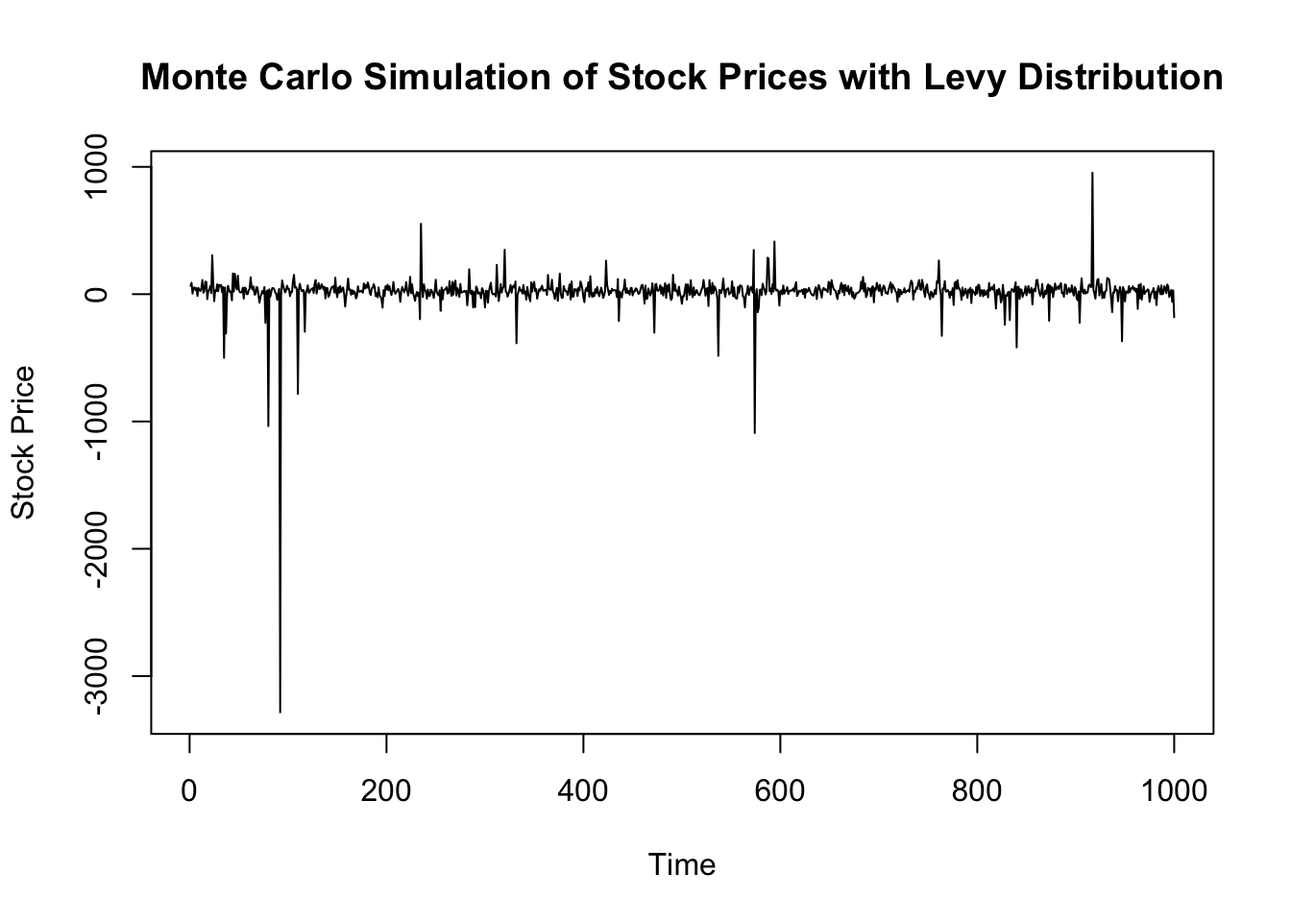
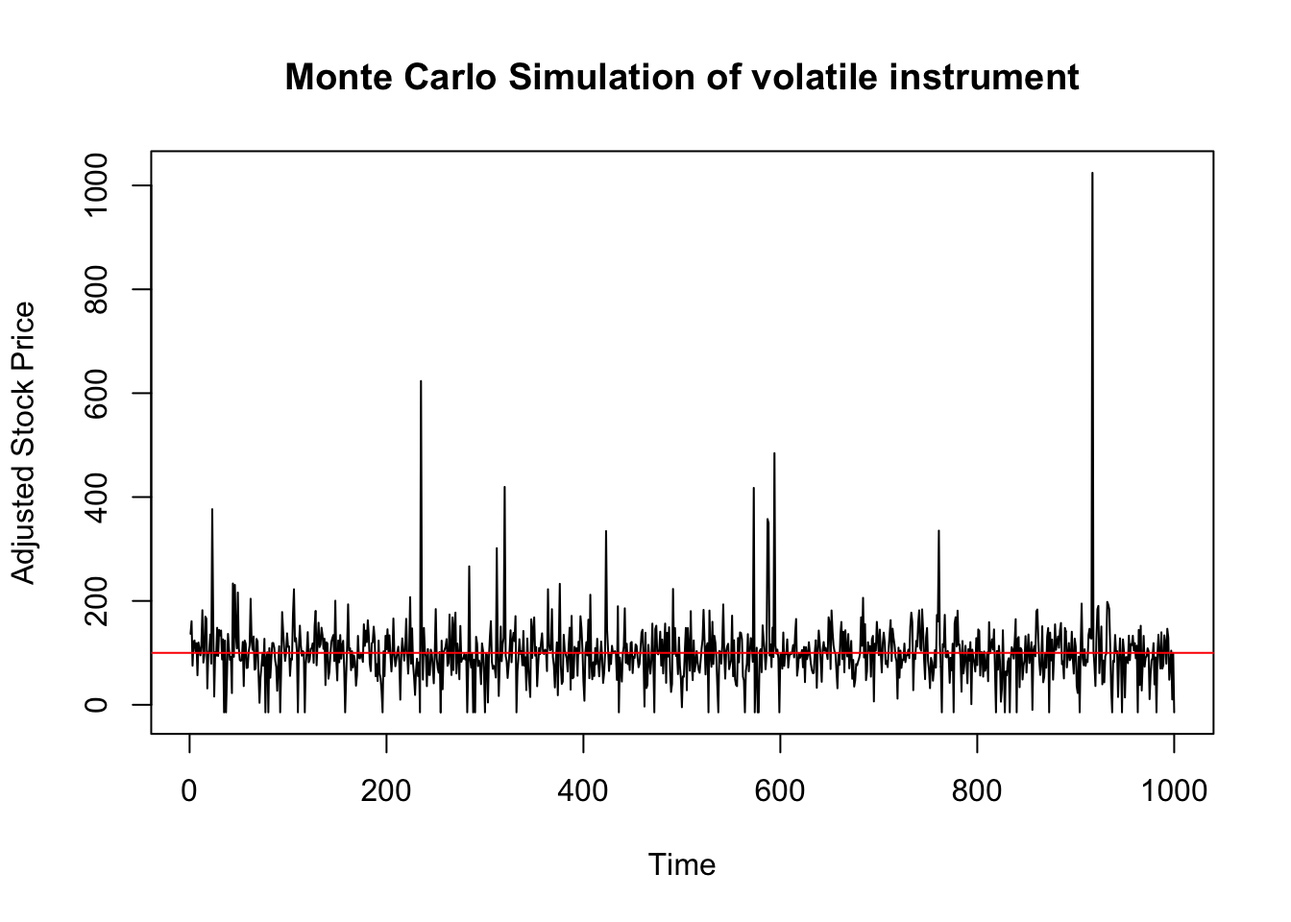
drawdons 23.5

diff --git a/docs/Catallactics/Personal/levi.html b/docs/Catallactics/Personal/levi.html
@@ -791,6 +791,16 @@ cookieconsent.run({
   <li><a href="#fat-tail" id="toc-fat-tail" class="nav-link" data-scroll-target="#fat-tail">Fat tail</a></li>
   <li><a href="#levy-distribution" id="toc-levy-distribution" class="nav-link" data-scroll-target="#levy-distribution">Levy distribution</a></li>
   <li><a href="#left-skewed-levy-distribution" id="toc-left-skewed-levy-distribution" class="nav-link" data-scroll-target="#left-skewed-levy-distribution">Left skewed Levy distribution</a></li>
+  <li><a href="#alternate-worlds" id="toc-alternate-worlds" class="nav-link" data-scroll-target="#alternate-worlds">1000 alternate worlds</a></li>
+  <li><a href="#what-is-the-probability-of-various-return-rates" id="toc-what-is-the-probability-of-various-return-rates" class="nav-link" data-scroll-target="#what-is-the-probability-of-various-return-rates">What is the probability of various return rates?</a>
+  <ul class="collapse">
+  <li><a href="#summing-up-all-probabilities" id="toc-summing-up-all-probabilities" class="nav-link" data-scroll-target="#summing-up-all-probabilities"><strong>Summing Up All Probabilities:</strong></a></li>
+  </ul></li>
+  <li><a href="#value-at-risk-var-and-conditional-var" id="toc-value-at-risk-var-and-conditional-var" class="nav-link" data-scroll-target="#value-at-risk-var-and-conditional-var">Value at Risk (VaR) and Conditional VaR</a>
+  <ul class="collapse">
+  <li><a href="#var" id="toc-var" class="nav-link" data-scroll-target="#var">VaR</a></li>
+  <li><a href="#cvar" id="toc-cvar" class="nav-link" data-scroll-target="#cvar">CVaR</a></li>
+  </ul></li>
   </ul>
 </nav>
     </div>
@@ -879,6 +889,8 @@ cookieconsent.run({
 <h2 class="anchored" data-anchor-id="left-skewed-levy-distribution">Left skewed Levy distribution</h2>
 <p>We are particularly interested in Levy distribution while analysing returns from a volatile instrument.</p>
 <div class="cell">
+<details class="code-fold">
+<summary>Code</summary>
 <div class="sourceCode cell-code" id="cb1"><pre class="sourceCode r code-with-copy"><code class="sourceCode r"><span id="cb1-1"><a href="#cb1-1" aria-hidden="true" tabindex="-1"></a><span class="co"># Install and load the necessary package</span></span>
 <span id="cb1-2"><a href="#cb1-2" aria-hidden="true" tabindex="-1"></a><span class="co"># install.packages("stabledist")</span></span>
 <span id="cb1-3"><a href="#cb1-3" aria-hidden="true" tabindex="-1"></a><span class="fu">library</span>(stabledist)</span>
@@ -898,6 +910,7 @@ cookieconsent.run({
 <span id="cb1-17"><a href="#cb1-17" aria-hidden="true" tabindex="-1"></a></span>
 <span id="cb1-18"><a href="#cb1-18" aria-hidden="true" tabindex="-1"></a><span class="co"># Plot the histogram of the simulated data</span></span>
 <span id="cb1-19"><a href="#cb1-19" aria-hidden="true" tabindex="-1"></a><span class="fu">hist</span>(levy_data, <span class="at">breaks =</span> <span class="dv">50</span>, <span class="at">main =</span> <span class="st">"Left-Skewed Lévy Distribution"</span>, <span class="at">xlab =</span> <span class="st">"Data"</span>, <span class="at">ylab =</span> <span class="st">"Frequency"</span>, <span class="at">col =</span> <span class="st">"blue"</span>)</span></code><button title="Copy to Clipboard" class="code-copy-button"><i class="bi"></i></button></pre></div>
+</details>
 <div class="cell-output-display">
 <div>
 <figure class="figure">
@@ -917,7 +930,18 @@ cookieconsent.run({
 <li><p><code>Frequency of huge loss is more than huge gains.</code></p></li>
 </ul>
 <p><code>But in case of standard volatile instruments, the left side is truncated at -100%</code></p>
+</section>
+<section id="alternate-worlds" class="level2">
+<h2 class="anchored" data-anchor-id="alternate-worlds">1000 alternate worlds</h2>
+<p>If we imagine 1000 alternative worlds were this distribution is at play, we can see that each world will be experiencing different returns.</p>
+<p><img src="images/notsogoo.png" class="img-fluid" width="60"></p>
+<p>Some will be experiencing repeated huge draw-downs followed by not so huge build-ups.</p>
+<p>Others may experience significant draw-downs followed by multiple towering build-ups.</p>
+<p><img src="images/huge.png" class="img-fluid" width="84"></p>
+<p>What is common to all these worlds are frequent and extreme draw-downs.</p>
 <div class="cell">
+<details class="code-fold">
+<summary>Code</summary>
 <div class="sourceCode cell-code" id="cb2"><pre class="sourceCode r code-with-copy"><code class="sourceCode r"><span id="cb2-1"><a href="#cb2-1" aria-hidden="true" tabindex="-1"></a><span class="fu">library</span>(stabledist)</span>
 <span id="cb2-2"><a href="#cb2-2" aria-hidden="true" tabindex="-1"></a></span>
 <span id="cb2-3"><a href="#cb2-3" aria-hidden="true" tabindex="-1"></a><span class="fu">set.seed</span>(<span class="dv">42</span>)</span>
@@ -937,11 +961,16 @@ cookieconsent.run({
 <span id="cb2-17"><a href="#cb2-17" aria-hidden="true" tabindex="-1"></a><span class="co"># Calculate cumulative sum for each simulation to get the stock prices</span></span>
 <span id="cb2-18"><a href="#cb2-18" aria-hidden="true" tabindex="-1"></a>stock_prices <span class="ot">&lt;-</span> <span class="fu">apply</span>(simulations, <span class="dv">1</span>, cumsum)</span>
 <span id="cb2-19"><a href="#cb2-19" aria-hidden="true" tabindex="-1"></a></span>
-<span id="cb2-20"><a href="#cb2-20" aria-hidden="true" tabindex="-1"></a><span class="co"># Add mean return to the stock prices</span></span>
-<span id="cb2-21"><a href="#cb2-21" aria-hidden="true" tabindex="-1"></a>stock_prices <span class="ot">&lt;-</span> stock_prices <span class="sc">+</span> mean_return</span>
-<span id="cb2-22"><a href="#cb2-22" aria-hidden="true" tabindex="-1"></a></span>
-<span id="cb2-23"><a href="#cb2-23" aria-hidden="true" tabindex="-1"></a><span class="co"># Plot some sample simulations</span></span>
-<span id="cb2-24"><a href="#cb2-24" aria-hidden="true" tabindex="-1"></a><span class="fu">plot</span>(stock_prices[<span class="dv">1</span>, ], <span class="at">type =</span> <span class="st">"l"</span>, <span class="at">xlab =</span> <span class="st">"Time"</span>, <span class="at">ylab =</span> <span class="st">"Stock Price"</span>, <span class="at">main =</span> <span class="st">"Monte Carlo Simulation of Stock Prices with Levy Distribution"</span>)</span></code><button title="Copy to Clipboard" class="code-copy-button"><i class="bi"></i></button></pre></div>
+<span id="cb2-20"><a href="#cb2-20" aria-hidden="true" tabindex="-1"></a><span class="co"># Truncate downside to maximum -100% and adjust baseline stock price to 100</span></span>
+<span id="cb2-21"><a href="#cb2-21" aria-hidden="true" tabindex="-1"></a>stock_prices_truncated <span class="ot">&lt;-</span> <span class="fu">pmax</span>(stock_prices, <span class="sc">-</span><span class="dv">100</span>)</span>
+<span id="cb2-22"><a href="#cb2-22" aria-hidden="true" tabindex="-1"></a>stock_prices_adjusted <span class="ot">&lt;-</span> stock_prices_truncated <span class="sc">+</span> (<span class="dv">100</span> <span class="sc">-</span> mean_return)</span>
+<span id="cb2-23"><a href="#cb2-23" aria-hidden="true" tabindex="-1"></a></span>
+<span id="cb2-24"><a href="#cb2-24" aria-hidden="true" tabindex="-1"></a><span class="co"># Plot some sample simulations</span></span>
+<span id="cb2-25"><a href="#cb2-25" aria-hidden="true" tabindex="-1"></a><span class="fu">plot</span>(stock_prices_adjusted[<span class="dv">1</span>, ], <span class="at">type =</span> <span class="st">"l"</span>, <span class="at">xlab =</span> <span class="st">"Time"</span>, <span class="at">ylab =</span> <span class="st">"Adjusted Stock Price"</span>, <span class="at">main =</span> <span class="st">"Monte Carlo Simulation of volatile instrument"</span>)</span>
+<span id="cb2-26"><a href="#cb2-26" aria-hidden="true" tabindex="-1"></a></span>
+<span id="cb2-27"><a href="#cb2-27" aria-hidden="true" tabindex="-1"></a><span class="co"># Add a horizontal line at y = 100 (baseline price)</span></span>
+<span id="cb2-28"><a href="#cb2-28" aria-hidden="true" tabindex="-1"></a><span class="fu">abline</span>(<span class="at">h =</span> <span class="dv">100</span>, <span class="at">col =</span> <span class="st">"red"</span>)</span></code><button title="Copy to Clipboard" class="code-copy-button"><i class="bi"></i></button></pre></div>
+</details>
 <div class="cell-output-display">
 <div>
 <figure class="figure">
@@ -950,7 +979,12 @@ cookieconsent.run({
 </div>
 </div>
 </div>
+</section>
+<section id="what-is-the-probability-of-various-return-rates" class="level2">
+<h2 class="anchored" data-anchor-id="what-is-the-probability-of-various-return-rates">What is the probability of various return rates?</h2>
 <div class="cell">
+<details class="code-fold">
+<summary>Code</summary>
 <div class="sourceCode cell-code" id="cb3"><pre class="sourceCode r code-with-copy"><code class="sourceCode r"><span id="cb3-1"><a href="#cb3-1" aria-hidden="true" tabindex="-1"></a><span class="fu">library</span>(Rcpp)</span>
 <span id="cb3-2"><a href="#cb3-2" aria-hidden="true" tabindex="-1"></a><span class="fu">library</span>(stabledist)</span>
 <span id="cb3-3"><a href="#cb3-3" aria-hidden="true" tabindex="-1"></a></span>
@@ -973,16 +1007,23 @@ cookieconsent.run({
 <span id="cb3-20"><a href="#cb3-20" aria-hidden="true" tabindex="-1"></a></span>
 <span id="cb3-21"><a href="#cb3-21" aria-hidden="true" tabindex="-1"></a><span class="co"># Basic summary statistics</span></span>
 <span id="cb3-22"><a href="#cb3-22" aria-hidden="true" tabindex="-1"></a><span class="fu">cat</span>(<span class="st">"Summary Statistics:</span><span class="sc">\n</span><span class="st">"</span>)</span></code><button title="Copy to Clipboard" class="code-copy-button"><i class="bi"></i></button></pre></div>
+</details>
 <div class="cell-output cell-output-stdout">
 <pre><code>Summary Statistics:</code></pre>
 </div>
+<details class="code-fold">
+<summary>Code</summary>
 <div class="sourceCode cell-code" id="cb5"><pre class="sourceCode r code-with-copy"><code class="sourceCode r"><span id="cb5-1"><a href="#cb5-1" aria-hidden="true" tabindex="-1"></a><span class="fu">print</span>(<span class="fu">summary</span>(future_returns))</span></code><button title="Copy to Clipboard" class="code-copy-button"><i class="bi"></i></button></pre></div>
+</details>
 <div class="cell-output cell-output-stdout">
 <pre><code>    Min.  1st Qu.   Median     Mean  3rd Qu.     Max. 
  -100.00   -11.06    13.78    26.94    37.50 73155.33 </code></pre>
 </div>
+<details class="code-fold">
+<summary>Code</summary>
 <div class="sourceCode cell-code" id="cb7"><pre class="sourceCode r code-with-copy"><code class="sourceCode r"><span id="cb7-1"><a href="#cb7-1" aria-hidden="true" tabindex="-1"></a><span class="co"># Basic histogram</span></span>
-<span id="cb7-2"><a href="#cb7-2" aria-hidden="true" tabindex="-1"></a><span class="fu">hist</span>(future_returns, <span class="at">breaks=</span><span class="dv">200</span>, <span class="at">main=</span><span class="st">"Histogram of Simulated Returns"</span>, <span class="at">xlab=</span><span class="st">"Returns"</span>)</span></code><button title="Copy to Clipboard" class="code-copy-button"><i class="bi"></i></button></pre></div>
+<span id="cb7-2"><a href="#cb7-2" aria-hidden="true" tabindex="-1"></a><span class="fu">hist</span>(future_returns, <span class="at">breaks=</span><span class="dv">175</span>, <span class="at">main=</span><span class="st">"Histogram of Simulated Returns"</span>, <span class="at">xlab=</span><span class="st">"Returns"</span>)</span></code><button title="Copy to Clipboard" class="code-copy-button"><i class="bi"></i></button></pre></div>
+</details>
 <div class="cell-output-display">
 <div>
 <figure class="figure">
@@ -990,57 +1031,114 @@ cookieconsent.run({
 </figure>
 </div>
 </div>
+<details class="code-fold">
+<summary>Code</summary>
 <div class="sourceCode cell-code" id="cb8"><pre class="sourceCode r code-with-copy"><code class="sourceCode r"><span id="cb8-1"><a href="#cb8-1" aria-hidden="true" tabindex="-1"></a><span class="co"># Probability calculations</span></span>
 <span id="cb8-2"><a href="#cb8-2" aria-hidden="true" tabindex="-1"></a></span>
 <span id="cb8-3"><a href="#cb8-3" aria-hidden="true" tabindex="-1"></a><span class="co"># Probability calculations</span></span>
 <span id="cb8-4"><a href="#cb8-4" aria-hidden="true" tabindex="-1"></a>p_return_greater_15 <span class="ot">&lt;-</span> <span class="fu">mean</span>(future_returns <span class="sc">&gt;</span> <span class="dv">15</span>)</span>
 <span id="cb8-5"><a href="#cb8-5" aria-hidden="true" tabindex="-1"></a><span class="fu">cat</span>(<span class="fu">paste</span>(<span class="st">"P(Return &gt; 15) ="</span>, p_return_greater_15, <span class="st">"</span><span class="sc">\n</span><span class="st">"</span>))</span></code><button title="Copy to Clipboard" class="code-copy-button"><i class="bi"></i></button></pre></div>
+</details>
 <div class="cell-output cell-output-stdout">
 <pre><code>P(Return &gt; 15) = 0.4876 </code></pre>
 </div>
+<details class="code-fold">
+<summary>Code</summary>
 <div class="sourceCode cell-code" id="cb10"><pre class="sourceCode r code-with-copy"><code class="sourceCode r"><span id="cb10-1"><a href="#cb10-1" aria-hidden="true" tabindex="-1"></a>p_return_greater_30 <span class="ot">&lt;-</span> <span class="fu">mean</span>(future_returns <span class="sc">&gt;</span> <span class="dv">30</span>)</span>
 <span id="cb10-2"><a href="#cb10-2" aria-hidden="true" tabindex="-1"></a><span class="fu">cat</span>(<span class="fu">paste</span>(<span class="st">"P(Return &gt; 30) ="</span>, p_return_greater_30, <span class="st">"</span><span class="sc">\n</span><span class="st">"</span>))</span></code><button title="Copy to Clipboard" class="code-copy-button"><i class="bi"></i></button></pre></div>
+</details>
 <div class="cell-output cell-output-stdout">
 <pre><code>P(Return &gt; 30) = 0.3211 </code></pre>
 </div>
+<details class="code-fold">
+<summary>Code</summary>
 <div class="sourceCode cell-code" id="cb12"><pre class="sourceCode r code-with-copy"><code class="sourceCode r"><span id="cb12-1"><a href="#cb12-1" aria-hidden="true" tabindex="-1"></a><span class="co"># Additional probability calculations</span></span>
 <span id="cb12-2"><a href="#cb12-2" aria-hidden="true" tabindex="-1"></a>p_between_5_and_15 <span class="ot">&lt;-</span> <span class="fu">mean</span>(future_returns <span class="sc">&gt;</span> <span class="dv">5</span> <span class="sc">&amp;</span> future_returns <span class="sc">&lt;</span> <span class="dv">15</span>)</span>
 <span id="cb12-3"><a href="#cb12-3" aria-hidden="true" tabindex="-1"></a><span class="fu">cat</span>(<span class="fu">paste</span>(<span class="st">"P(5 &lt; Return &lt; 15) ="</span>, p_between_5_and_15, <span class="st">"</span><span class="sc">\n</span><span class="st">"</span>))</span></code><button title="Copy to Clipboard" class="code-copy-button"><i class="bi"></i></button></pre></div>
+</details>
 <div class="cell-output cell-output-stdout">
 <pre><code>P(5 &lt; Return &lt; 15) = 0.1115 </code></pre>
 </div>
+<details class="code-fold">
+<summary>Code</summary>
 <div class="sourceCode cell-code" id="cb14"><pre class="sourceCode r code-with-copy"><code class="sourceCode r"><span id="cb14-1"><a href="#cb14-1" aria-hidden="true" tabindex="-1"></a>p_between_15_and_30 <span class="ot">&lt;-</span> <span class="fu">mean</span>(future_returns <span class="sc">&gt;</span> <span class="dv">15</span> <span class="sc">&amp;</span> future_returns <span class="sc">&lt;</span> <span class="dv">30</span>)</span>
 <span id="cb14-2"><a href="#cb14-2" aria-hidden="true" tabindex="-1"></a><span class="fu">cat</span>(<span class="fu">paste</span>(<span class="st">"P(15 &lt; Return &lt; 30) ="</span>, p_between_15_and_30, <span class="st">"</span><span class="sc">\n</span><span class="st">"</span>))</span></code><button title="Copy to Clipboard" class="code-copy-button"><i class="bi"></i></button></pre></div>
+</details>
 <div class="cell-output cell-output-stdout">
 <pre><code>P(15 &lt; Return &lt; 30) = 0.1665 </code></pre>
 </div>
+<details class="code-fold">
+<summary>Code</summary>
 <div class="sourceCode cell-code" id="cb16"><pre class="sourceCode r code-with-copy"><code class="sourceCode r"><span id="cb16-1"><a href="#cb16-1" aria-hidden="true" tabindex="-1"></a>p_between_neg5_and_5 <span class="ot">&lt;-</span> <span class="fu">mean</span>(future_returns <span class="sc">&gt;</span> <span class="sc">-</span><span class="dv">5</span> <span class="sc">&amp;</span> future_returns <span class="sc">&lt;</span> <span class="dv">5</span>)</span>
 <span id="cb16-2"><a href="#cb16-2" aria-hidden="true" tabindex="-1"></a><span class="fu">cat</span>(<span class="fu">paste</span>(<span class="st">"P(-5 &lt; Return &lt; 5) ="</span>, p_between_neg5_and_5, <span class="st">"</span><span class="sc">\n</span><span class="st">"</span>))</span></code><button title="Copy to Clipboard" class="code-copy-button"><i class="bi"></i></button></pre></div>
+</details>
 <div class="cell-output cell-output-stdout">
 <pre><code>P(-5 &lt; Return &lt; 5) = 0.1008 </code></pre>
 </div>
+<details class="code-fold">
+<summary>Code</summary>
 <div class="sourceCode cell-code" id="cb18"><pre class="sourceCode r code-with-copy"><code class="sourceCode r"><span id="cb18-1"><a href="#cb18-1" aria-hidden="true" tabindex="-1"></a>p_between_neg15_and_neg5 <span class="ot">&lt;-</span> <span class="fu">mean</span>(future_returns <span class="sc">&gt;</span> <span class="sc">-</span><span class="dv">15</span> <span class="sc">&amp;</span> future_returns <span class="sc">&lt;</span> <span class="sc">-</span><span class="dv">5</span>)</span>
 <span id="cb18-2"><a href="#cb18-2" aria-hidden="true" tabindex="-1"></a><span class="fu">cat</span>(<span class="fu">paste</span>(<span class="st">"P(-15 &lt; Return &lt; -5) ="</span>, p_between_neg15_and_neg5, <span class="st">"</span><span class="sc">\n</span><span class="st">"</span>))</span></code><button title="Copy to Clipboard" class="code-copy-button"><i class="bi"></i></button></pre></div>
+</details>
 <div class="cell-output cell-output-stdout">
 <pre><code>P(-15 &lt; Return &lt; -5) = 0.0796 </code></pre>
 </div>
+<details class="code-fold">
+<summary>Code</summary>
 <div class="sourceCode cell-code" id="cb20"><pre class="sourceCode r code-with-copy"><code class="sourceCode r"><span id="cb20-1"><a href="#cb20-1" aria-hidden="true" tabindex="-1"></a>p_less_neg15 <span class="ot">&lt;-</span> <span class="fu">mean</span>(future_returns <span class="sc">&lt;</span> <span class="sc">-</span><span class="dv">15</span>)</span>
 <span id="cb20-2"><a href="#cb20-2" aria-hidden="true" tabindex="-1"></a><span class="fu">cat</span>(<span class="fu">paste</span>(<span class="st">"P(Return &lt; -15) ="</span>, p_less_neg15, <span class="st">"</span><span class="sc">\n</span><span class="st">"</span>))</span></code><button title="Copy to Clipboard" class="code-copy-button"><i class="bi"></i></button></pre></div>
+</details>
 <div class="cell-output cell-output-stdout">
 <pre><code>P(Return &lt; -15) = 0.2205 </code></pre>
 </div>
+<details class="code-fold">
+<summary>Code</summary>
 <div class="sourceCode cell-code" id="cb22"><pre class="sourceCode r code-with-copy"><code class="sourceCode r"><span id="cb22-1"><a href="#cb22-1" aria-hidden="true" tabindex="-1"></a>p_less_neg30 <span class="ot">&lt;-</span> <span class="fu">mean</span>(future_returns <span class="sc">&lt;</span> <span class="sc">-</span><span class="dv">30</span>)</span>
 <span id="cb22-2"><a href="#cb22-2" aria-hidden="true" tabindex="-1"></a><span class="fu">cat</span>(<span class="fu">paste</span>(<span class="st">"P(Return &lt; -30) ="</span>, p_less_neg30, <span class="st">"</span><span class="sc">\n</span><span class="st">"</span>))</span></code><button title="Copy to Clipboard" class="code-copy-button"><i class="bi"></i></button></pre></div>
+</details>
 <div class="cell-output cell-output-stdout">
 <pre><code>P(Return &lt; -30) = 0.1382 </code></pre>
 </div>
+<details class="code-fold">
+<summary>Code</summary>
 <div class="sourceCode cell-code" id="cb24"><pre class="sourceCode r code-with-copy"><code class="sourceCode r"><span id="cb24-1"><a href="#cb24-1" aria-hidden="true" tabindex="-1"></a>p_less_neg60 <span class="ot">&lt;-</span> <span class="fu">mean</span>(future_returns <span class="sc">&lt;</span> <span class="sc">-</span><span class="dv">60</span>)</span>
 <span id="cb24-2"><a href="#cb24-2" aria-hidden="true" tabindex="-1"></a><span class="fu">cat</span>(<span class="fu">paste</span>(<span class="st">"P(Return &lt; -60) ="</span>, p_less_neg60, <span class="st">"</span><span class="sc">\n</span><span class="st">"</span>))</span></code><button title="Copy to Clipboard" class="code-copy-button"><i class="bi"></i></button></pre></div>
+</details>
 <div class="cell-output cell-output-stdout">
 <pre><code>P(Return &lt; -60) = 0.0684 </code></pre>
 </div>
 </div>
+<section id="summing-up-all-probabilities" class="level3">
+<h3 class="anchored" data-anchor-id="summing-up-all-probabilities"><strong>Summing Up All Probabilities:</strong></h3>
+<p>Now we sum all these mutually exclusive probabilities<a href="#fn1" class="footnote-ref" id="fnref1" role="doc-noteref"><sup>1</sup></a>:</p>
+<ul>
+<li><p><strong>P(Return &lt; -60)</strong>: 0.0648</p></li>
+<li><p><strong>P(-60 ≤ Return &lt; -30)</strong>: 0.0754</p></li>
+<li><p><strong>P(-30 ≤ Return &lt; -15)</strong>: 0.0795</p></li>
+<li><p><strong>P(-15 ≤ Return &lt; -5)</strong>: 0.0829</p></li>
+<li><p><strong>P(-5 ≤ Return &lt; 5)</strong>: 0.0952</p></li>
+<li><p><strong>P(5 ≤ Return &lt; 15)</strong>: 0.1155</p></li>
+<li><p><strong>P(15 ≤ Return &lt; 30)</strong>: 0.1626</p></li>
+<li><p><strong>P(Return &gt; 30)</strong>: 0.3241</p></li>
+</ul>
+</section>
+</section>
+<section id="value-at-risk-var-and-conditional-var" class="level2">
+<h2 class="anchored" data-anchor-id="value-at-risk-var-and-conditional-var">Value at Risk (VaR) and Conditional VaR</h2>
+<p>Traditionally, mean and the variance are used as metrics to select an appropriate portfolio. One down side of mean-variance-risk assessment is that it assumes a symmetric distribution and secondly proposes to truncate variance on either side to reduce risk.</p>
+<p>In fact variance is beneficial for buildup of the right side of the distribution and adds convexity to the benefit if we can mitigate the risk of large draw-downs on the left side.</p>
+<p>Two metrics that specifically looks for tail risk are Value at Risk (VaR) and Conditional Value at Risk (CVaR)</p>
+<section id="var" class="level3">
+<h3 class="anchored" data-anchor-id="var">VaR</h3>
+<p>This measures the maximum loss over a given time period with a certain confidence level. For example, VaR at a 95% confidence level is the loss that will not be exceeded with 95% probability.</p>
+</section>
+<section id="cvar" class="level3">
+<h3 class="anchored" data-anchor-id="cvar">CVaR</h3>
+<p>This measures the expected loss given that the loss has exceeded the VaR threshold. It’s also known as Expected Shortfall.</p>
+<p>CVaR is the most useful measure to foresee the shortfall in the capital, if the tail risk remains unattended.</p>
 <div class="cell">
+<details class="code-fold">
+<summary>Code</summary>
 <div class="sourceCode cell-code" id="cb26"><pre class="sourceCode r code-with-copy"><code class="sourceCode r"><span id="cb26-1"><a href="#cb26-1" aria-hidden="true" tabindex="-1"></a><span class="co"># Calculate VaR and CVaR</span></span>
 <span id="cb26-2"><a href="#cb26-2" aria-hidden="true" tabindex="-1"></a>confidence_level <span class="ot">&lt;-</span> <span class="fl">0.95</span></span>
 <span id="cb26-3"><a href="#cb26-3" aria-hidden="true" tabindex="-1"></a></span>
@@ -1057,19 +1155,32 @@ cookieconsent.run({
 <span id="cb26-14"><a href="#cb26-14" aria-hidden="true" tabindex="-1"></a></span>
 <span id="cb26-15"><a href="#cb26-15" aria-hidden="true" tabindex="-1"></a><span class="co"># Print results rounded to 2 decimal places</span></span>
 <span id="cb26-16"><a href="#cb26-16" aria-hidden="true" tabindex="-1"></a><span class="fu">cat</span>(<span class="st">"VaR (95% confidence level) ="</span>, <span class="fu">round</span>(VaR_95_rupees, <span class="dv">2</span>), <span class="st">"rupees</span><span class="sc">\n</span><span class="st">"</span>)</span></code><button title="Copy to Clipboard" class="code-copy-button"><i class="bi"></i></button></pre></div>
+</details>
 <div class="cell-output cell-output-stdout">
 <pre><code>VaR (95% confidence level) = -74.94 rupees</code></pre>
 </div>
+<details class="code-fold">
+<summary>Code</summary>
 <div class="sourceCode cell-code" id="cb28"><pre class="sourceCode r code-with-copy"><code class="sourceCode r"><span id="cb28-1"><a href="#cb28-1" aria-hidden="true" tabindex="-1"></a><span class="fu">cat</span>(<span class="st">"CVaR (95% confidence level) ="</span>, <span class="fu">round</span>(CVaR_95_rupees, <span class="dv">2</span>), <span class="st">"rupees</span><span class="sc">\n</span><span class="st">"</span>)</span></code><button title="Copy to Clipboard" class="code-copy-button"><i class="bi"></i></button></pre></div>
+</details>
 <div class="cell-output cell-output-stdout">
 <pre><code>CVaR (95% confidence level) = -95.88 rupees</code></pre>
 </div>
 </div>
+<p>In this scenario, we can see that CVaR can be huge and can potentially wipe out the entire capital.</p>
+<p>This take us to the logical next step, how to <a href="https://www.knotes.co.in/catallactics/personal/speculation">mitigate the tail risk</a></p>
 
 
 </section>
+</section>
 
-<a onclick="window.scrollTo(0, 0); return false;" role="button" id="quarto-back-to-top"><i class="bi bi-arrow-up"></i> Back to top</a></main> <!-- /main -->
+
+<a onclick="window.scrollTo(0, 0); return false;" role="button" id="quarto-back-to-top"><i class="bi bi-arrow-up"></i> Back to top</a><div id="quarto-appendix" class="default"><section id="footnotes" class="footnotes footnotes-end-of-document" role="doc-endnotes"><h2 class="anchored quarto-appendix-heading">Footnotes</h2>
+
+<ol>
+<li id="fn1"><p>Sum = 0.0648 + 0.0754 + 0.0795 + 0.0829 + 0.0952 + 0.1155 + 0.1626 + 0.3241 = 0.9999<a href="#fnref1" class="footnote-back" role="doc-backlink">↩</a></p></li>
+</ol>
+</section></div></main> <!-- /main -->
 <script id="quarto-html-after-body" type="application/javascript">
 window.document.addEventListener("DOMContentLoaded", function (event) {
   const toggleBodyColorMode = (bsSheetEl) => {

diff --git a/docs/posts/montecarlo.html b/docs/posts/montecarlo.html
@@ -987,7 +987,7 @@ Income distribution is not normal
 </details>
 <div class="cell-output cell-output-stdout">
 <pre><code>     Min.   1st Qu.    Median      Mean   3rd Qu.      Max. 
-1.945e+05 2.954e+05 3.455e+05 7.362e+05 4.416e+05 1.354e+09 </code></pre>
+   206794    295329    342931    534725    439321 165094447 </code></pre>
 </div>
 <details open="" class="code-fold">
 <summary>Code</summary>
@@ -995,7 +995,7 @@ Income distribution is not normal
 </details>
 <div class="cell-output cell-output-stdout">
 <pre><code>   Min. 1st Qu.  Median    Mean 3rd Qu.    Max. 
-  61954   64075   64513   64519   64952   67046 </code></pre>
+  62218   64060   64491   64501   64937   67077 </code></pre>
 </div>
 <details open="" class="code-fold">
 <summary>Code</summary>
@@ -1003,7 +1003,7 @@ Income distribution is not normal
 </details>
 <div class="cell-output cell-output-stdout">
 <pre><code>     Min.   1st Qu.    Median      Mean   3rd Qu.      Max. 
-7.567e+05 3.329e+06 5.724e+06 4.421e+07 1.221e+07 1.354e+11 </code></pre>
+9.634e+05 3.273e+06 5.617e+06 2.403e+07 1.196e+07 1.647e+10 </code></pre>
 </div>
 </div>
 </section>

diff --git a/docs/Revision notes/Diagrams/diagrams.html b/docs/Revision notes/Diagrams/diagrams.html
@@ -1267,7 +1267,7 @@ window.document.addEventListener("DOMContentLoaded", function (event) {
 </div>
   </div>
 </footer>
-<script>var lightboxQuarto = GLightbox({"openEffect":"zoom","loop":false,"descPosition":"bottom","selector":".lightbox","closeEffect":"zoom"});
+<script>var lightboxQuarto = GLightbox({"selector":".lightbox","openEffect":"zoom","closeEffect":"zoom","loop":false,"descPosition":"bottom"});
 window.onload = () => {
   lightboxQuarto.on('slide_before_load', (data) => {
     const { slideIndex, slideNode, slideConfig, player, trigger } = data;
